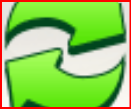
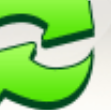
Fixed requirements.txt. Some changes to collectFood. Updated the regrow.png  and added new resolution

diff --git a/collectFood.py b/collectFood.py
@@ -13,18 +13,20 @@ class FoodCollector:
     FARM_POS = None
     REGROW_POS = None
     [res] = get_monitors()
-    X_START = get_int(0.49 * res.width)
+    X_START = get_int(0.4 * res.width)
     Y_START = get_int(0.76 * res.height)
     X_END = get_int(0.82 * res.width)
     Y_END = res.height
     FOOD_POS = []
     CACHE_INVALIDATION_TIMES = 30
     _run_times = 0
+    _count = 0
 
     @staticmethod
     def _get_farm_position():
         if FoodCollector.FARM_POS is None or not exists(FoodCollector.FARM_POS):
             FoodCollector.FARM_POS = getImagePositionRegion(C.FOOD_FARM, *FoodCollector.jsonPos['foodFarm'])
+            FoodCollector.FARM_POS = [FoodCollector.FARM_POS[0] + 5, FoodCollector.FARM_POS[1] + 10] # add some correction due to screenshot image.
         return FoodCollector.FARM_POS
 
     @staticmethod
@@ -34,9 +36,11 @@ class FoodCollector:
     @staticmethod
     def _regrow():
         regrow = FoodCollector._get_regrow_button()
+     
         if exists(regrow):
             moveAndClick(regrow)
-            print('Regrow successful!')
+            FoodCollector._count += 1
+            print('Regrow successful!', FoodCollector._count)
         check_if_ok()
 
     @staticmethod
@@ -89,5 +93,5 @@ class FoodCollector:
 def collect_food(isHeroicRace = False):
     return FoodCollector.collectFood(isHeroicRace)  
  
-# while 1:
-#     collect_food(True)
+while 1:
+    collect_food(True)
